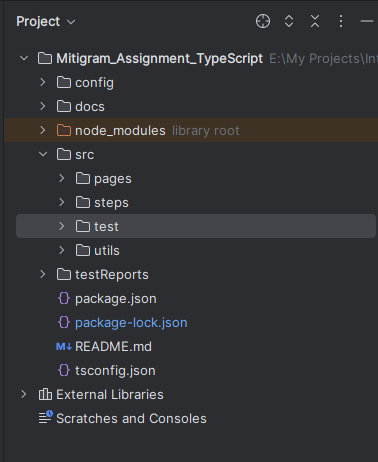
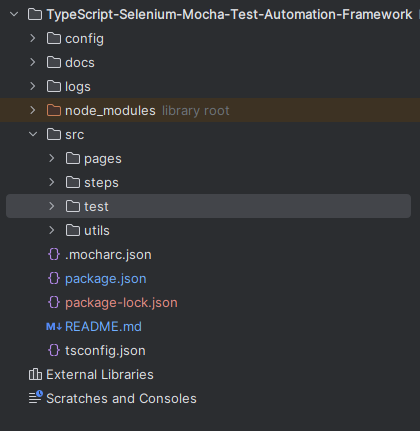
changes in readme file

Changed region(s): [[0.0, 0.0, 1.0, 0.935]]

diff --git a/README.md b/README.md
@@ -1,7 +1,7 @@
-# Mitigram Assignment
+# Selenium-TypeScript based UI Automation Framework
 ## Introduction
-This repository contains the Selenium test scenarios to test the 
-Login flow of the Mitigram portal, the Careers page, and the Newsletter section.
+This repository contains the example Selenium test scenarios to test the 
+Login flow of the GitHub, and the Careers page.
 ## Supported Operating Systems
 * Windows
 * Linux
@@ -46,4 +46,4 @@ ex: `npx mocha src/test/careersPageTests.ts -g "Validate engineering positions f
 ##### View Test Results Report
 Open the file `testReports/testResults.html` in a web browser to view the HTML test results report.
 ##### View Test Logs
-Open the file `logs/mitigram-selenium-test.log` to view the outputs logged to the file.
+Open the file `logs/selenium-test.log` to view the outputs logged to the file.
